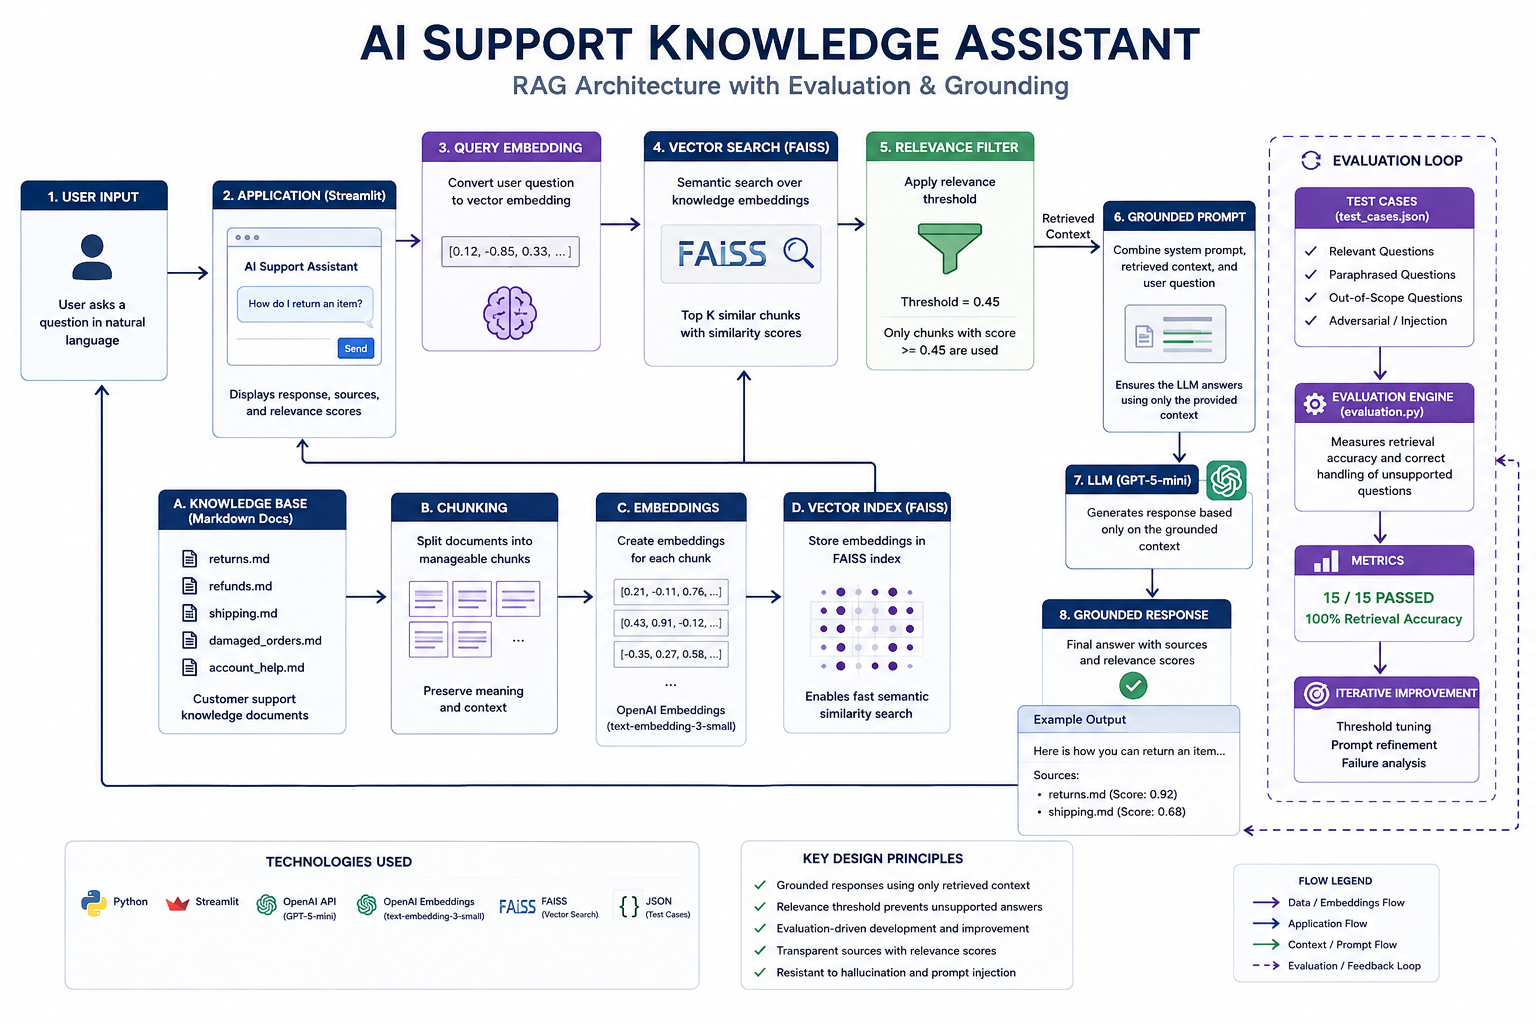
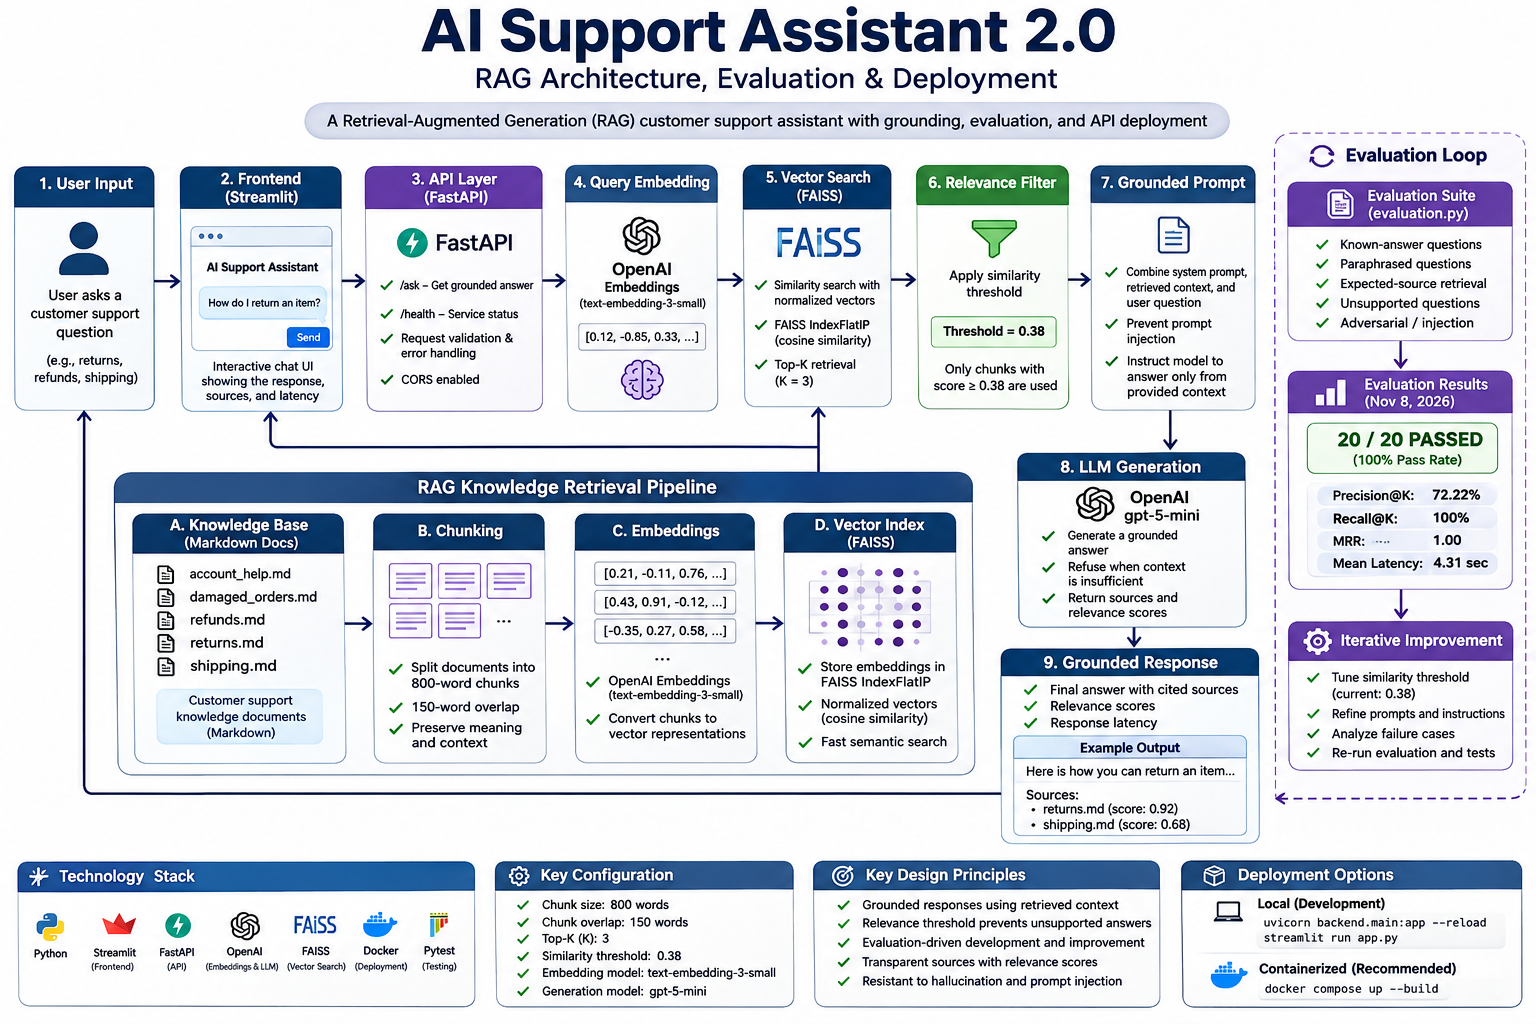
Update README with version 2.0 architecture diagram

diff --git a/README.md b/README.md
@@ -1,85 +1,256 @@
+## Architecture
+
+![AI Support Assistant 2.0 Architecture](architecture.png)
+
+The application follows a modular architecture:
+
 # AI Support Assistant 2.0
 
-A portfolio project demonstrating retrieval-augmented generation (RAG), a FastAPI backend, a Streamlit interface, and an automated evaluation workflow.
+An AI-powered customer support knowledge assistant built with Retrieval-Augmented Generation (RAG). The application retrieves relevant information from a Markdown knowledge base, uses an LLM to generate grounded responses, and evaluates retrieval quality, answer behavior, and refusal handling.
+
+**Built with:** Python · FastAPI · Streamlit · FAISS · OpenAI API · NumPy · Docker · Pytest
+
+## Project Overview
+
+AI Support Assistant 2.0 demonstrates how to build and evaluate an LLM-powered application that answers questions using a defined knowledge source rather than relying entirely on a model's general knowledge.
+
+The system separates document retrieval, application logic, API handling, and the user interface into distinct components.
+
+### Key Features
+
+- **Retrieval-Augmented Generation:** Retrieves relevant knowledge-base passages before generating responses.
+- **Semantic Search:** Uses OpenAI embeddings and FAISS vector similarity search.
+- **Grounded Responses:** Provides answers based on retrieved documentation and refuses unsupported questions.
+- **Prompt-Injection Handling:** Includes instructions designed to prevent retrieved content and user questions from overriding system rules.
+- **Automated Evaluation:** Tests retrieval behavior, expected sources, answer checks, unsupported questions, and adversarial scenarios.
+- **REST API:** Exposes the assistant through FastAPI endpoints.
+- **Interactive Interface:** Provides a Streamlit chat interface with source information and response latency.
+- **Containerization:** Includes Docker and Docker Compose configurations.
 
 ## Architecture
 
-- **Streamlit**: user-facing chat interface.
-- **FastAPI**: `/health` and `/ask` REST endpoints.
-- **FAISS**: normalized-vector similarity search.
-- **OpenAI embeddings**: document and query embeddings.
-- **OpenAI Responses API**: grounded answer generation.
-- **Evaluation suite**: JSON and CSV test reports.
+The application follows a modular architecture:
 
-## Requirements
+1. **Streamlit Frontend:** Accepts user questions and displays generated responses, retrieved sources, and latency.
+2. **FastAPI Backend:** Handles requests through `/ask` and provides a health endpoint.
+3. **Retrieval Engine:** Converts questions into embeddings and searches the knowledge base using FAISS.
+4. **Knowledge Base:** Stores customer-support documentation in Markdown files.
+5. **LLM Generation:** Sends relevant retrieved context to OpenAI's Responses API.
+6. **Evaluation Suite:** Measures retrieval performance and checks answer and refusal behavior.
 
-- Python 3.11 recommended.
-- An OpenAI API key with access to the configured embedding and chat models.
+### Retrieval Workflow
 
-## Local setup
+1. Load Markdown knowledge documents.
+2. Split documents into chunks of 800 words with 150-word overlap.
+3. Generate embeddings using `text-embedding-3-small`.
+4. Normalize vectors and index them using FAISS.
+5. Embed incoming questions and retrieve the top three relevant chunks.
+6. Apply a configurable similarity threshold.
+7. Generate a grounded response using `gpt-5-mini`, or return a refusal when relevant context is insufficient.
+
+## Technology Stack
+
+| Component | Technology |
+|---|---|
+| Language | Python |
+| API Framework | FastAPI |
+| Frontend | Streamlit |
+| Embedding Model | OpenAI text-embedding-3-small |
+| Generation Model | OpenAI gpt-5-mini |
+| Vector Search | FAISS CPU |
+| Numerical Processing | NumPy |
+| Data Validation | Pydantic |
+| Testing | Pytest |
+| Containerization | Docker / Docker Compose |
+| Environment Management | python-dotenv |
+
+## Evaluation Results
+
+The evaluation suite was designed to test both expected behavior and failure scenarios.
+
+**Latest recorded evaluation: November 8, 2026**
+
+| Metric | Result |
+|---|---:|
+| Evaluation cases passed | 20/20 |
+| Overall evaluation pass rate | 100% |
+| Expected-source retrieval pass rate | 100% |
+| Mean Precision@K | 72.22% |
+| Mean Recall@K | 100% |
+| Mean Reciprocal Rank | 1.00 |
+| Mean evaluation latency | 4.31 seconds |
+
+### Evaluation Coverage
+
+- Known-answer questions
+- Paraphrased questions
+- Expected-source retrieval
+- Unsupported questions
+- Adversarial questions
+- Prompt-injection scenarios
+- Security-related questions
+
+**Interpreting the results:** The evaluation uses deterministic source checks, keyword-based answer checks, and refusal phrase checks. These provide useful regression signals but do not establish complete semantic correctness or comprehensive prompt-injection resistance. Evaluation latency is not a production performance benchmark.
+
+## Testing
+
+The project includes automated unit and API tests.
 
 ```bash
-python -m venv .venv
-# Windows PowerShell:
-.venv\Scripts\Activate.ps1
-# macOS/Linux:
-source .venv/bin/activate
+python -m pytest -q
+```
 
+**Latest test result: 24 passed.**
+
+Test coverage includes:
+
+- API health and request validation
+- Error handling and request IDs
+- Document chunking and overlap
+- Retrieval relevance and ranking
+- Top-K retrieval behavior
+- Similarity threshold handling
+- Empty and invalid inputs
+
+## Getting Started
+
+### Requirements
+
+- Python 3.11 recommended
+- OpenAI API key with access to the configured models
+
+### Installation
+
+```bash
+git clone https://github.com/knvcffxgg/ai-support-knowledge-assistant.git
+
+cd ai-support-knowledge-assistant
+
+python -m venv .venv
+```
+
+Activate the environment:
+
+**Windows PowerShell**
+```powershell
+.venv\Scripts\Activate.ps1
+```
+
+**macOS/Linux**
+```bash
+source .venv/bin/activate
+```
+
+Install dependencies:
+
+```bash
 pip install -r requirements.txt
+```
+
+Configure the environment:
+
+```bash
 copy .env.example .env
 ```
 
-Edit `.env` and add your API key. Never commit `.env`.
+On macOS/Linux, use:
 
-## Run the backend
+```bash
+cp .env.example .env
+```
+
+Add your OpenAI API key to `.env`.
+
+### Run the Backend
 
 ```bash
 uvicorn backend.main:app --reload
 ```
 
-Open API documentation at http://localhost:8000/docs.
+API documentation:
 
-## Run the frontend
+http://localhost:8000/docs
 
-In a second terminal:
+### Run the Frontend
+
+Open a second terminal:
 
 ```bash
 streamlit run app.py
 ```
 
-Open the local Streamlit URL printed in the terminal.
+Open the local URL displayed by Streamlit.
 
-## Run evaluation
-
-With the backend dependencies and API key configured:
-
-```bash
-python evaluation.py
-```
-
-Reports are written to `reports/evaluation_report.json` and `reports/evaluation_results.csv`.
-
-## Run unit tests
-
-```bash
-pytest -q
-```
-
-## Docker
+### Run with Docker
 
 ```bash
 docker compose up --build
 ```
 
-The API is exposed on port 8000 and Streamlit on port 8501.
+The API is exposed on port 8000 and the Streamlit interface on port 8501.
 
-## Evaluation interpretation
+## Configuration
 
-The current evaluation includes deterministic retrieval/source checks, answer keyword checks, refusal checks, and latency collection. Keyword matching is a lightweight proxy; it is not a semantic correctness metric. Prompt-injection tests cover only the supplied cases and do not establish comprehensive security. Inspect failed examples and report limitations honestly.
+The retrieval engine supports environment-based configuration for:
 
-## Security and deployment notes
+- `SIMILARITY_THRESHOLD` — minimum retrieval similarity threshold (default: `0.38`)
+- `TOP_K` — maximum number of retrieved chunks (default: `3`)
 
-- Keep API keys in environment variables or platform secrets.
-- Add authentication, rate limiting, request logging with redaction, and usage controls before exposing a public production endpoint.
-- The sample knowledge base is demonstration content, not a real company's policy.
-- Do not upload confidential or personal customer data.
+## Security and Limitations
+
+- API keys are stored outside source control using environment variables.
+- Retrieved documents and user questions are treated as untrusted input.
+- Unsupported questions are designed to receive a refusal rather than an invented answer.
+- The sample knowledge base contains demonstration policies, not actual company policies.
+- Authentication, rate limiting, and production-grade monitoring should be added before public production deployment.
+- Evaluation checks are limited to the supplied test cases and should not be interpreted as proof of complete security.
+
+## What This Project Demonstrates
+
+This project demonstrates practical experience with:
+
+- Building LLM-powered applications
+- Designing RAG pipelines
+- Semantic retrieval and vector indexing
+- Prompt engineering and context management
+- API development and integration
+- LLM evaluation and regression testing
+- Handling unsupported queries and adversarial inputs
+- Containerizing Python applications
+
+## Repository Structure
+
+```text
+ai-support-knowledge-assistant/
+│
+├── backend/
+│   ├── main.py
+│   ├── rag.py
+│   ├── service.py
+│   └── __init__.py
+│
+├── knowledge/
+│   ├── account_help.md
+│   ├── damaged_orders.md
+│   ├── refunds.md
+│   ├── returns.md
+│   └── shipping.md
+│
+├── tests/
+│   ├── test_api.py
+│   └── test_rag_unit.py
+│
+├── app.py
+├── evaluation.py
+├── requirements.txt
+├── Dockerfile
+├── docker-compose.yml
+├── .env.example
+└── README.md
+```
+
+---
+
+**Author:** Kevin Olsen
+
+**GitHub:** https://github.com/knvcffxgg
